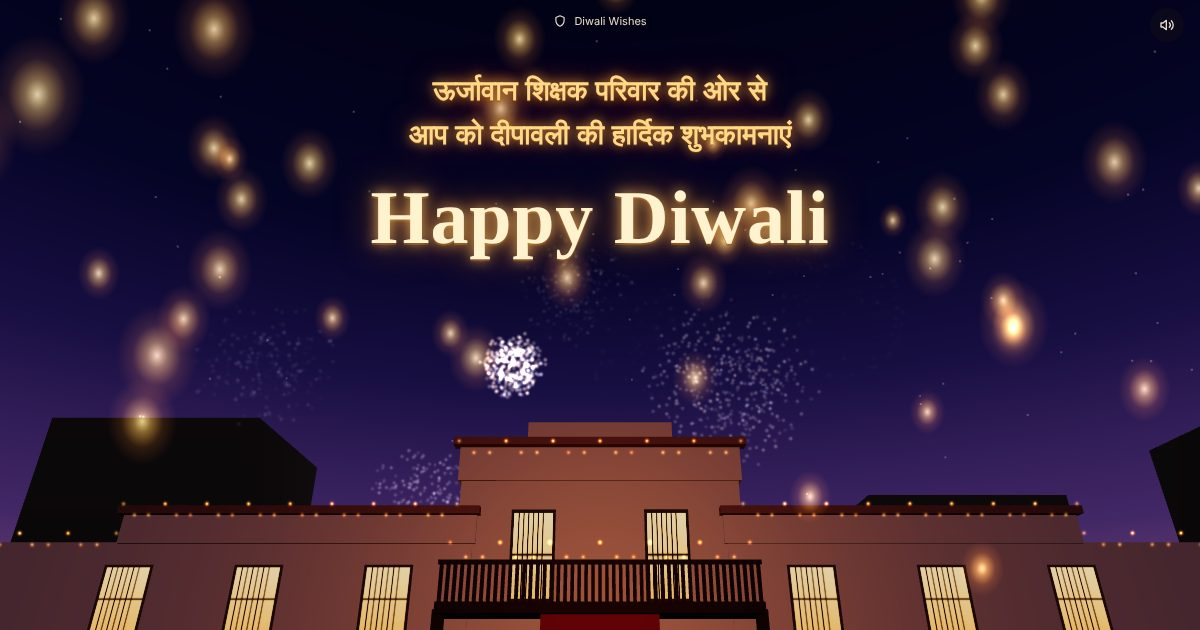
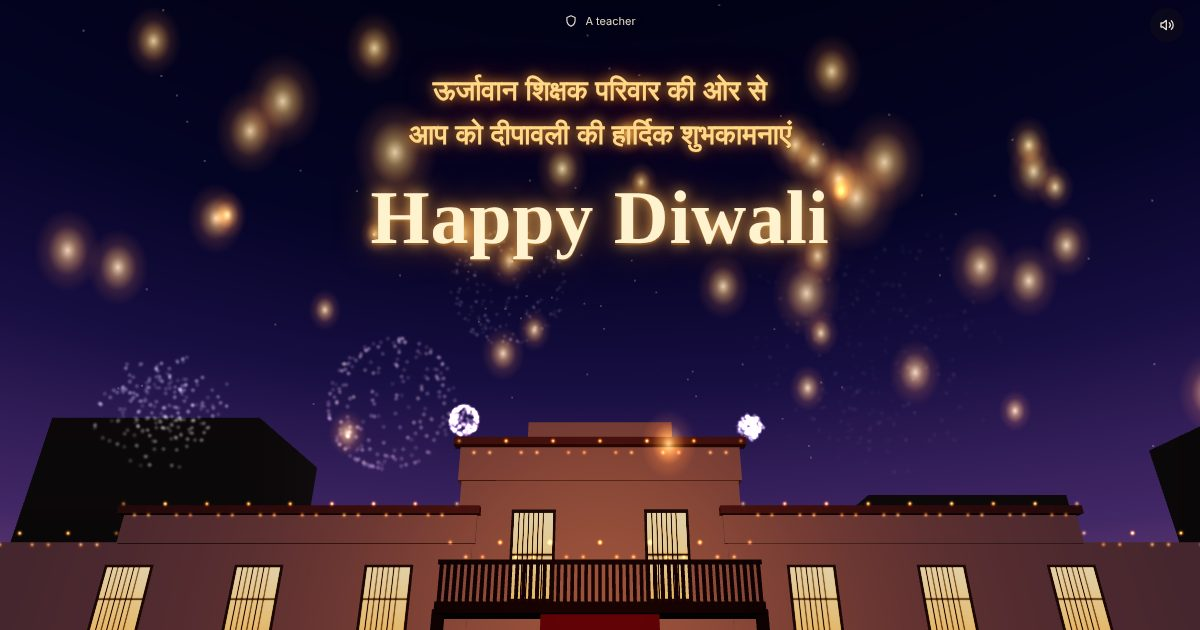
Wish page: replace 'Diwali Wishes' label with 'A teacher' (#358)
Claude-Session: https://claude.ai/code/session_018t1ajeCqmUPvMHmW8n2opz

diff --git a/wish-3d/index.html b/wish-3d/index.html
@@ -75,13 +75,13 @@
 
 <div id="splash">
   <div class="logo"><svg viewBox="0 0 24 24" fill="none" stroke="#7be0b0" stroke-width="2" stroke-linecap="round" stroke-linejoin="round"><path d="M12 3l7 3v5c0 5-3 8-7 10-4-2-7-5-7-10V6z"/><path d="M9 12l2 2 4-4"/></svg></div>
-  <div class="sname">Diwali Wishes</div>
+  <div class="sname">A teacher</div>
   <div class="pres">PRESENTS</div>
   <div class="bar"><i></i></div>
 </div>
 
 <div id="hud">
-  <div class="brand"><svg viewBox="0 0 24 24" fill="none" stroke="#e6dccc" stroke-width="2" stroke-linecap="round" stroke-linejoin="round"><path d="M12 3l7 3v5c0 5-3 8-7 10-4-2-7-5-7-10V6z"/></svg>Diwali Wishes</div>
+  <div class="brand"><svg viewBox="0 0 24 24" fill="none" stroke="#e6dccc" stroke-width="2" stroke-linecap="round" stroke-linejoin="round"><path d="M12 3l7 3v5c0 5-3 8-7 10-4-2-7-5-7-10V6z"/></svg>A teacher</div>
   <button id="snd" aria-label="Sound"><svg viewBox="0 0 24 24" fill="none" stroke="currentColor" stroke-width="2" stroke-linecap="round" stroke-linejoin="round"><path d="M11 5L6 9H3v6h3l5 4z"/><path id="wave" d="M15.5 8.5a5 5 0 010 7M18.5 5.5a9 9 0 010 13"/></svg></button>
 </div>
 
